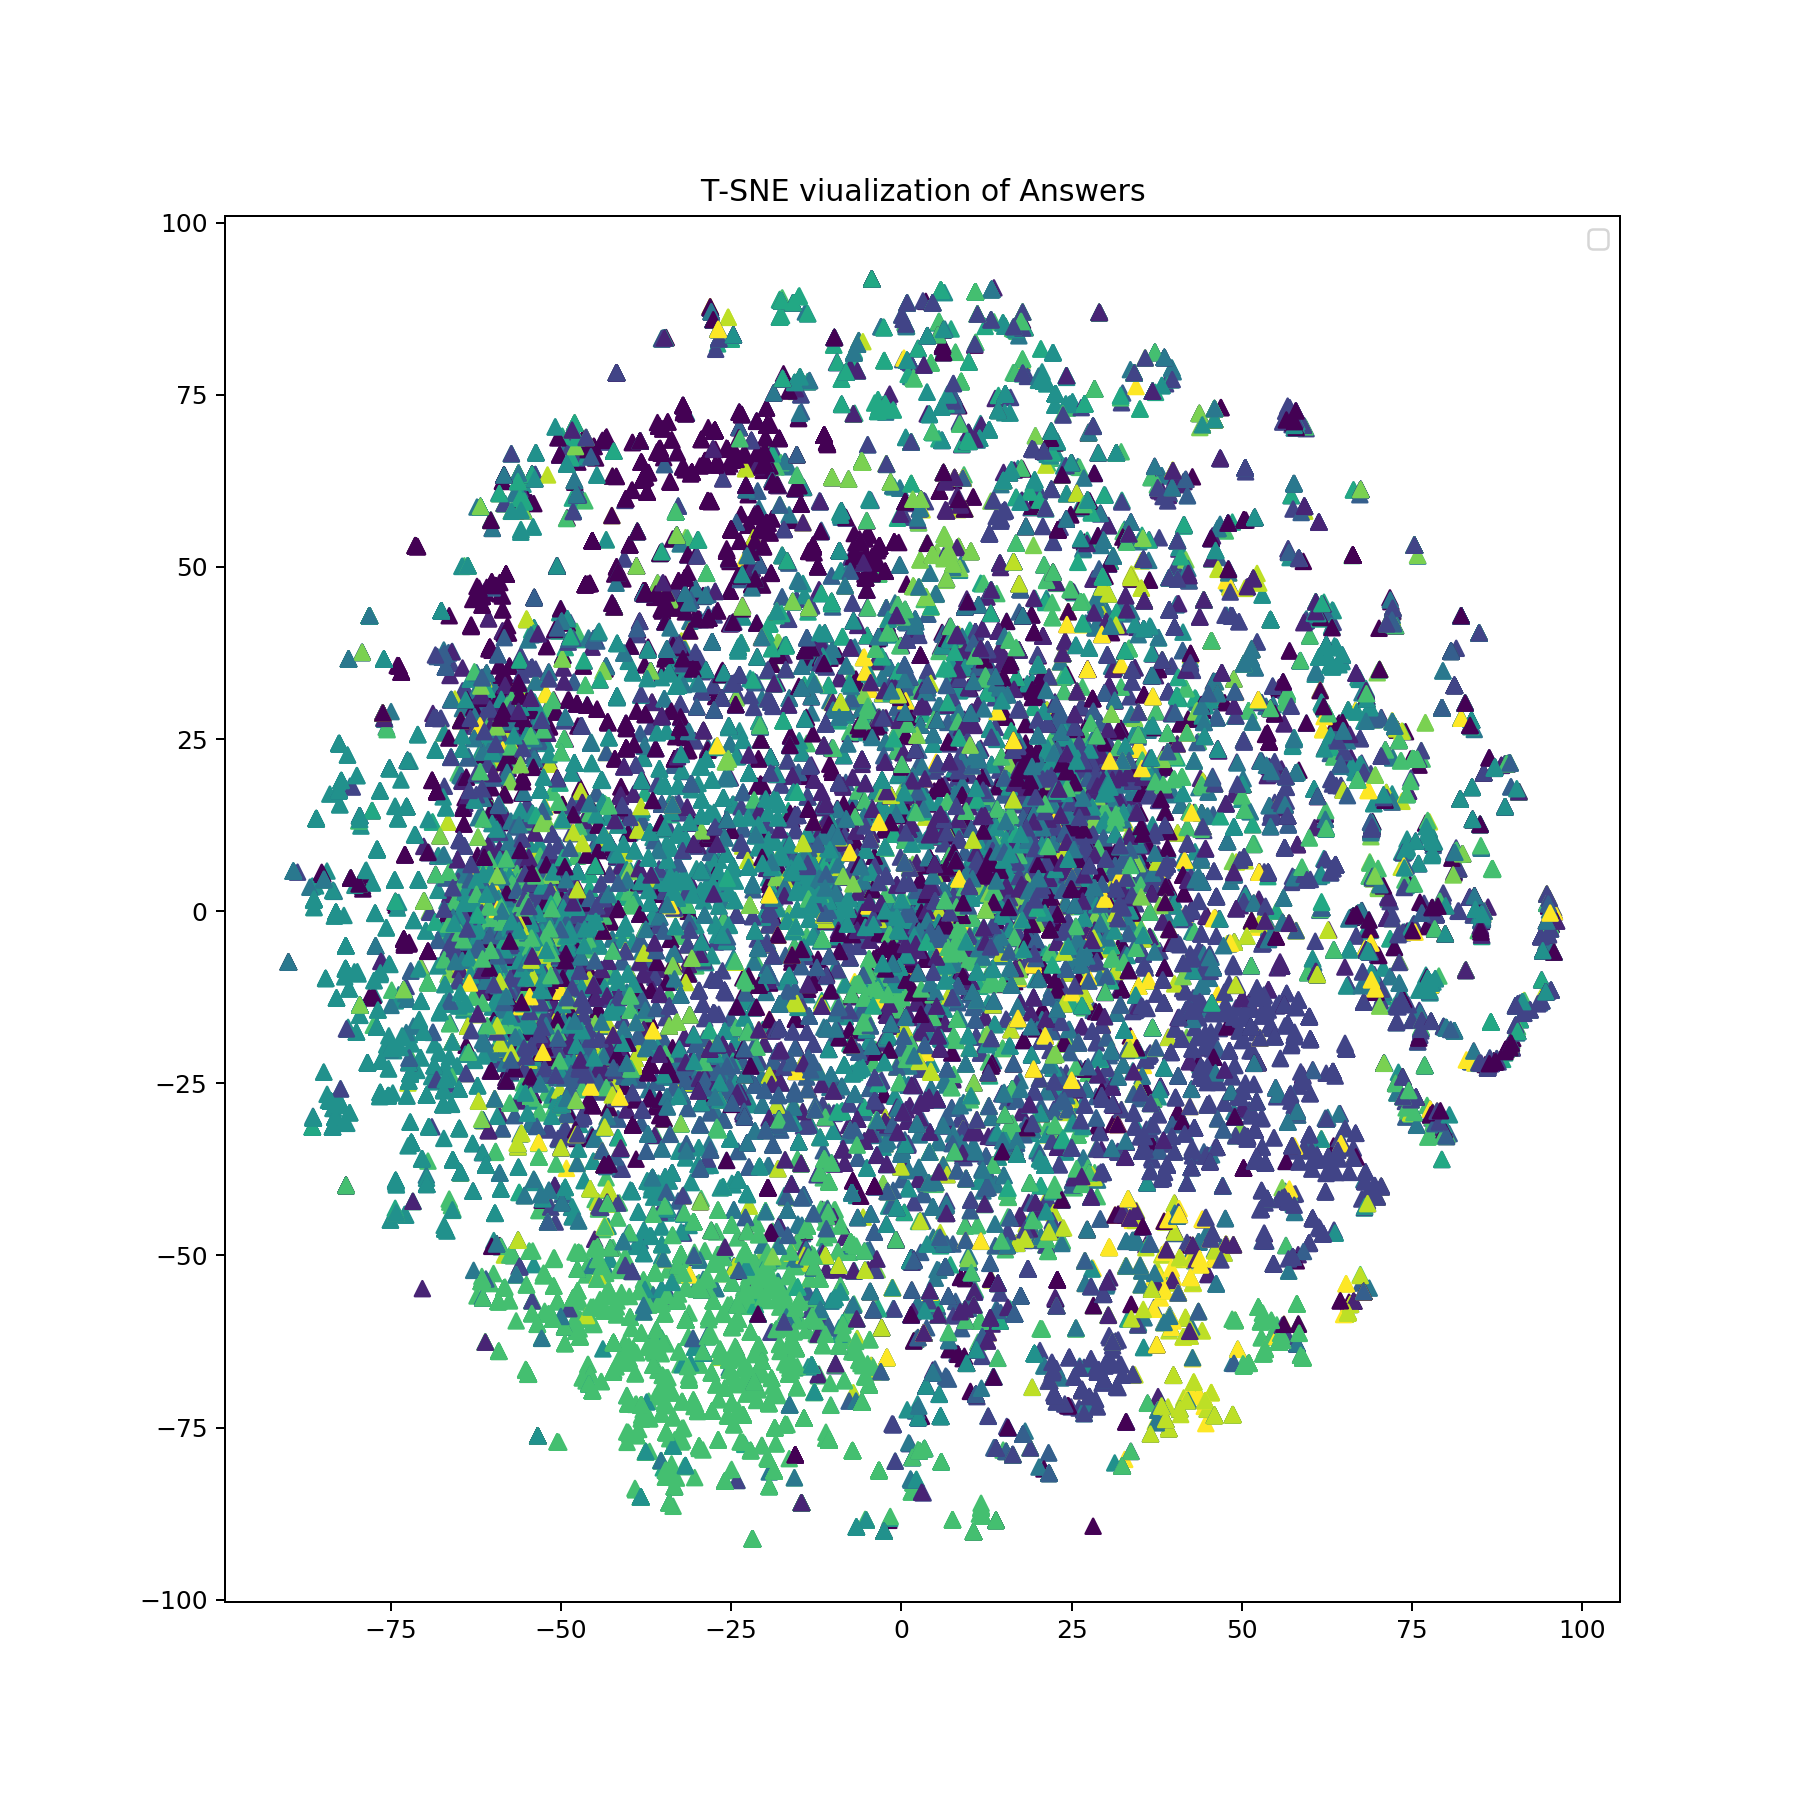
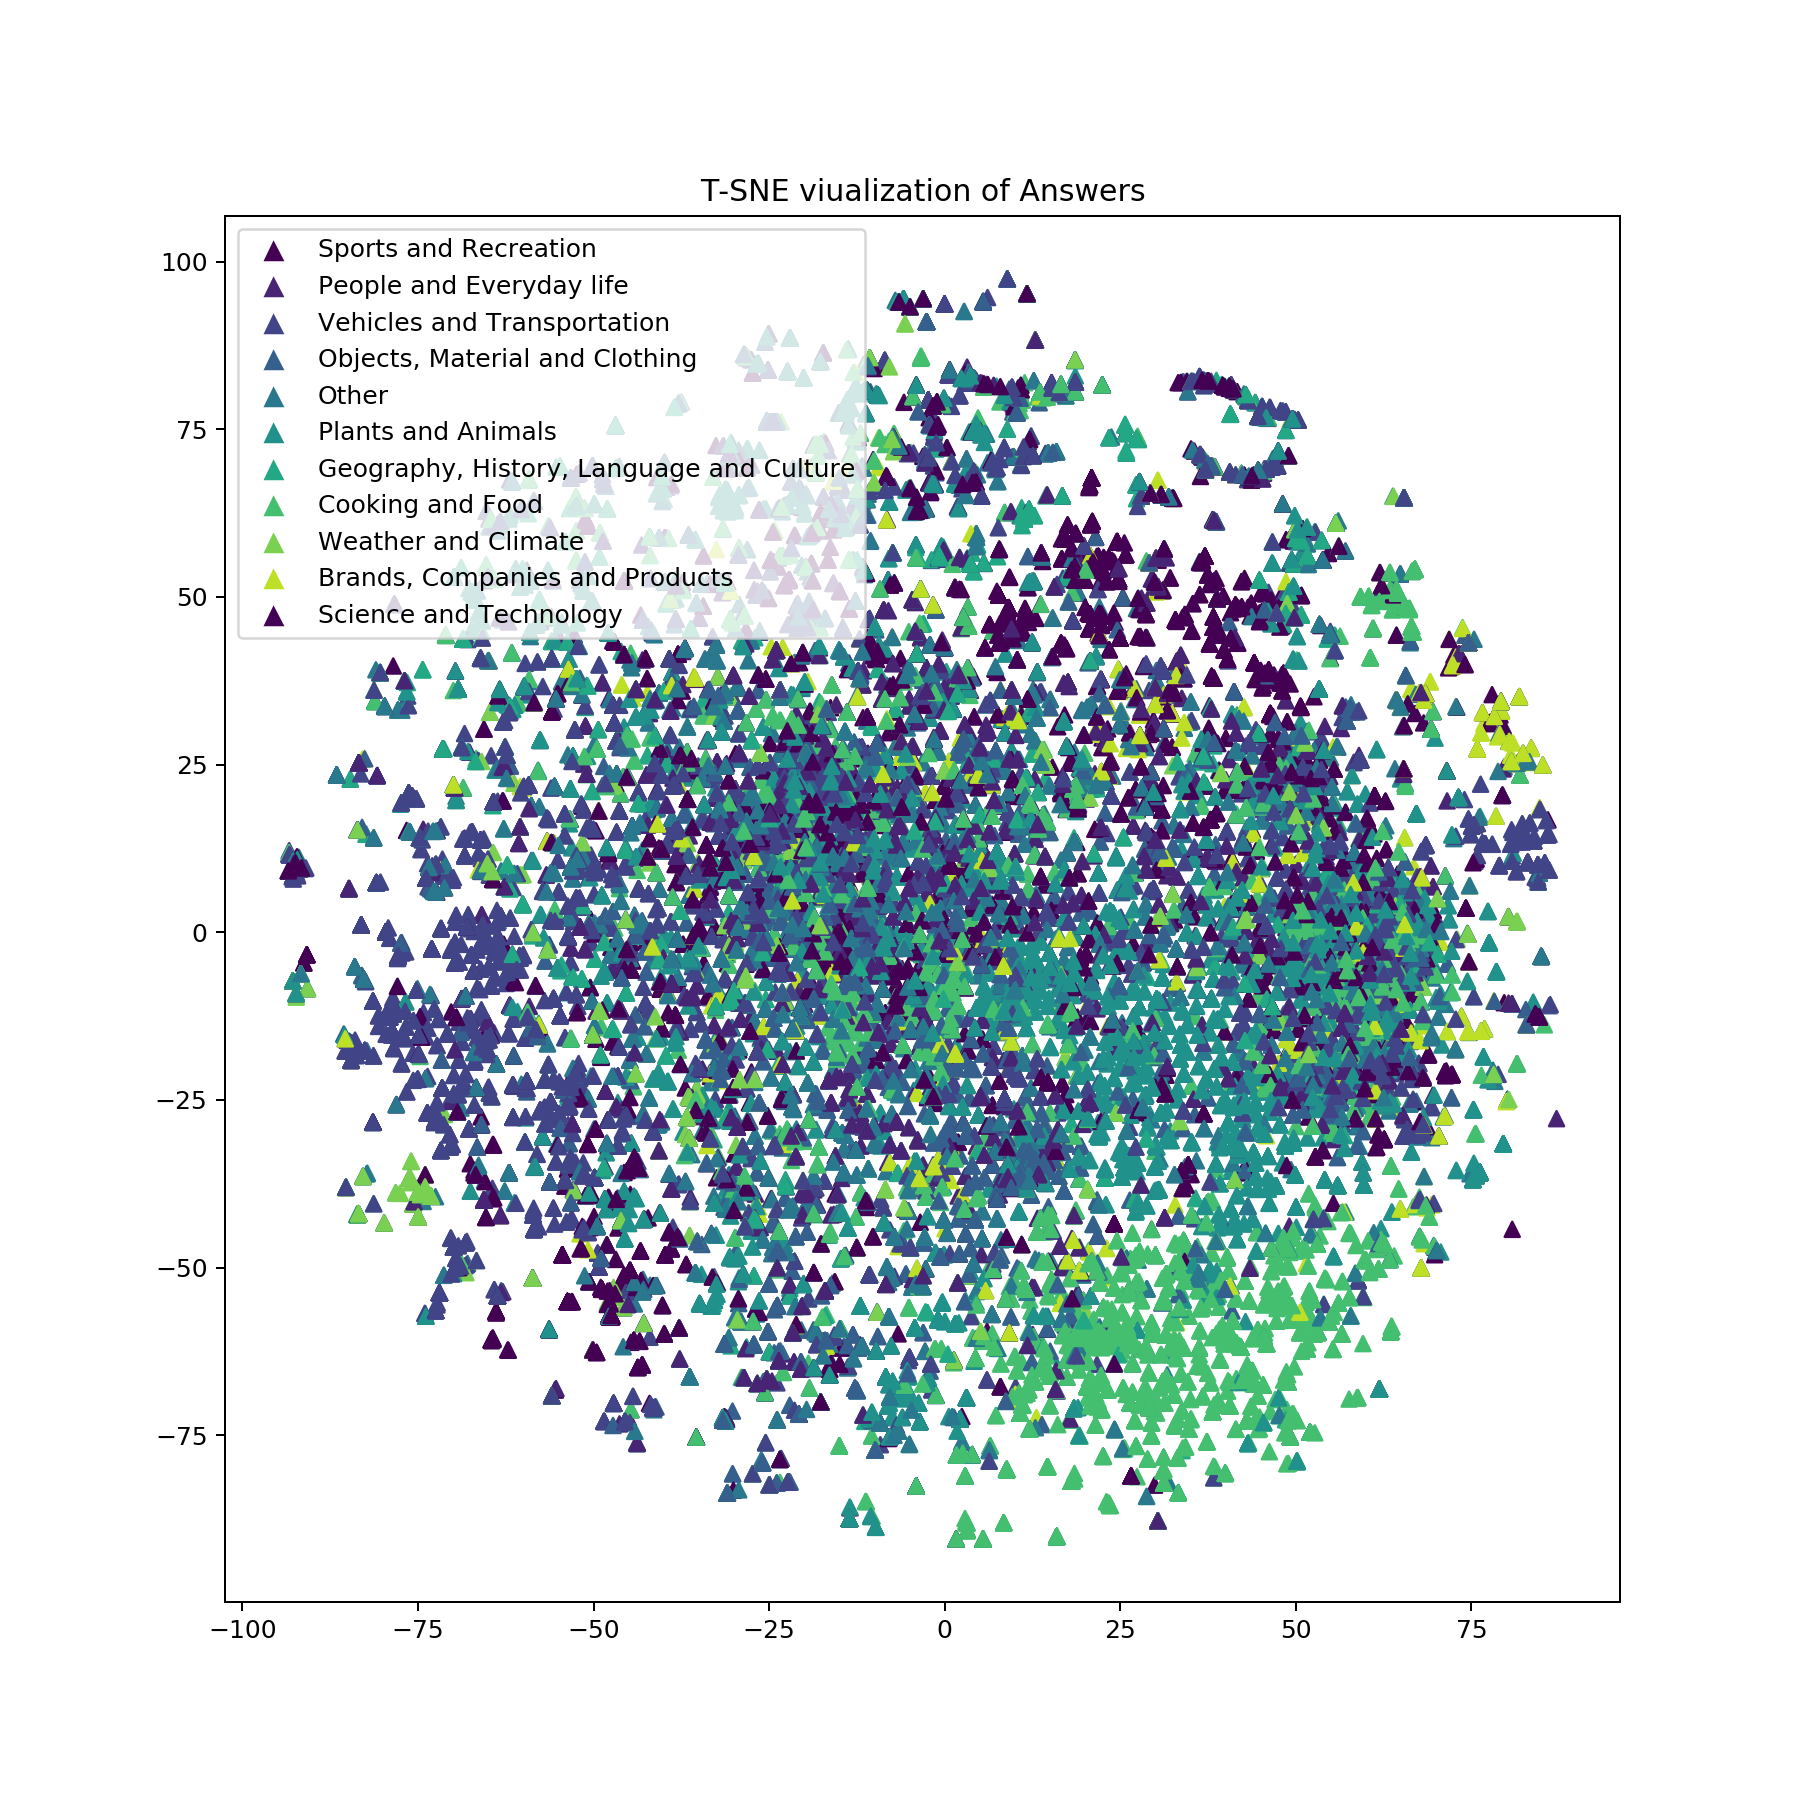
data analysis

diff --git a/language/word/visualize_word_embeddings.py b/language/word/visualize_word_embeddings.py
@@ -10,10 +10,13 @@ import numpy as np
 import nltk
 from sklearn.manifold import TSNE
 import matplotlib.pyplot as plt
+from matplotlib.lines import Line2D
 from string import punctuation
 hit = 0
 miss = 0
 color_map = [0, 0.1, 0.2, 0.3, 0.4, 0.5, 0.6, 0.7, 0.8, 0.9, 1]
+cmap = plt.cm.viridis
+# cmap = plt.rcParams['image.cmap']
 glove_path = "./glove.6B.50d.txt"
 answer_path = "./data/mscoco_train2014_annotations.json"
 question_path = "./data/OpenEnded_mscoco_train2014_questions.json"
@@ -25,14 +28,12 @@ def __process_sent(sent):
     return sent.lower().translate(translate_table)
 
 
-def get_sent_embedding(sentence, glove, filter_pos=None):
+def get_sent_embedding(sentence, glove, keep_pos=None):
     global hit, miss
-    if filter_pos is None:
-        filter_pos = []
     sentence = __process_sent(sentence)
     word_tokens = nltk.word_tokenize (sentence)
     tokens = nltk.pos_tag(word_tokens)
-    tokens = [item[0] for item in tokens if item[1] not in filter_pos]
+    tokens = [item[0] for item in tokens if keep_pos is None or item[1] in keep_pos]
     dim = glove.dim
     sent_emb = np.zeros(dim)
     cnt = 0
@@ -44,13 +45,15 @@ def get_sent_embedding(sentence, glove, filter_pos=None):
             cnt += 1
         else:
             miss += 1
+    if cnt == 0:
+        print('EMPTY')
     return sent_emb / cnt if cnt > 0 else sent_emb
 
 
-def all_embeddings(sentences, glove, filter_pos=None):
+def all_embeddings(sentences, glove, keep_pos=None):
     x = np.zeros((len(sentences), glove.dim))
     for i, sent in enumerate(sentences):
-        x[i, :] = get_sent_embedding(sent, glove, filter_pos)
+        x[i, :] = get_sent_embedding(sent, glove, keep_pos)
     return x
 
 
@@ -64,17 +67,29 @@ def tsne_visualize(X, types, type2name, name):
     # types = np.array(types)
     X_embedded = TSNE (n_components=2).fit_transform (X)
     f, axes = plt.subplots(1,1,figsize=(10, 10))
+    types = np.array(types)
+
     def plot(ax, data, **kwargs):
         return ax.scatter(data[:, 0], data[:, 1], **kwargs)
 
-    color = [color_map[i] for i in types]
-    plot(axes, X_embedded, c=color, marker='^', label=type2name[t])
-
-    axes.legend(title_fontsize='small', loc='upper left')
+    color = [cmap(color_map[i]) for i in types]
+    plot(axes, X_embedded, c=color, marker='^')
+    type_ids = np.unique (types)
+    legends = []
+    for type_id in type_ids :
+        type_name = type2name[type_id]
+        line = Line2D ([0], [0], marker='^',
+                       color='w',
+                       label=type_name,
+                       markerfacecolor=cmap(color_map[type_id]),
+                       markersize=10)
+        legends.append(line)
+    axes.legend(handles=legends, title_fontsize='small', loc='upper left')
     axes.set_title(f'T-SNE viualization of {name}')
     f.savefig(f"./language.plot.sentence.{name}.png", dpi=180)
 
 def main():
+    global miss, hit
     question_types = [] # integer
     questions = []
     anwser_types = []
@@ -85,18 +100,25 @@ def main():
         if type not in type2id:
             t = len(type2id)
             type2id[type] = t
-            type2id[t] = type
+            id2type[t] = type
 
         question_types.append (type2id[type])
+        questions.append(question)
         answers = set(answers)  # duplicate answers
         for answer in answers:
             all_answers.append(answer)
             anwser_types.append(type2id[type])
 
     tsne_visualize(all_embeddings(questions, glove_obj), question_types, id2type, "Questions")
+    print (f"Glove hit/miss in questions: {hit}/{miss}")
+    hit = 0
+    miss = 0
     tsne_visualize(all_embeddings(all_answers, glove_obj), anwser_types, id2type, "Answers")
+    print (f"Glove hit/miss in answers: {hit}/{miss}")
 
 def main_with_name_entity_filter():
+    keep_pos = ['NNS', 'NN', 'NNP', 'NNPS', "JJ", 'JJR', 'PRP', 'PRP$', 'RB', 'RBR', 'RBS', 'RP', 'SYM', 'VB', 'VBD',
+                'VBG', 'VBN', 'VBP', 'VBZ']
     question_types = [] # integer
     questions = []
     anwser_types = []
@@ -107,16 +129,16 @@ def main_with_name_entity_filter():
         if type not in type2id:
             t = len(type2id)
             type2id[type] = t
-            type2id[t] = type
+            id2type[t] = type
 
         question_types.append (type2id[type])
+        questions.append(question)
         answers = set(answers)  # duplicate answers
         for answer in answers:
             all_answers.append(answer)
             anwser_types.append(type2id[type])
 
-    tsne_visualize(all_embeddings(questions, glove_obj), question_types, id2type, "Questions.filter")
-    tsne_visualize(all_embeddings(all_answers, glove_obj), anwser_types, id2type, "Answers.filter")
+    tsne_visualize(all_embeddings(questions, glove_obj, keep_pos), question_types, id2type, "Questions.filter")
 
 if __name__ == "__main__":
     main()

diff --git a/language/word/similarity_check.py b/language/word/similarity_check.py
@@ -16,13 +16,13 @@ def cosine_similarity(x_vec, y_vev):
     :return:
     """
     y_norm = np.linalg.norm(y_vev, ord=2, axis=1, keepdims=True)
-    x_norm = np.linalg.norm(x_vec, ord=2, axis=1, keepdims=True)
-    return np.dot(y_vev, x_vec) / (y_norm * x_norm)
+    x_norm = np.linalg.norm(x_vec, ord=2, axis=0, keepdims=True)
+    return (y_vev @ x_vec[:, np.newaxis]) / ((y_norm * x_norm) + 1e-12)
 
 
 def get_rank(x_vec, y_vec, y_labels):
-    sim = cosine_similarity(x_vec, y_vec)
-    rank = np.argsort(sim)
+    sim = 1 / cosine_similarity(x_vec, y_vec).flatten()
+    rank = np.argsort(np.argsort(sim))
     ranks = []
     for label in y_labels:
         ranks.append(rank[label])
@@ -34,6 +34,7 @@ def get_mrr(x_vec, y_vec, y_labels):
     for i, labels in tqdm(enumerate(y_labels)):
         x = x_vec[i, :]
         ranks.extend(get_rank(x, y_vec, labels))
+
     mrr = [1/(i+1) for i in ranks]
     mrr = sum(mrr) / len(mrr)
     ranks = np.array(ranks)
@@ -55,15 +56,26 @@ def get_data(obj, glove_obj):
         for answer in answers:
             if answer not in answer2id:
                 t = len(answer2id)
-                answer2id[answer2id] = t
+                answer2id[answer] = t
                 id2answer[t] = answer
                 all_answers.append (answer)
 
-            labels.append(answer2id[answer2id])
+            labels.append(answer2id[answer])
 
         y_labels.append(labels)
+        questions.append(question)
 
     return all_embeddings(questions, glove_obj), all_embeddings(all_answers, glove_obj), y_labels
+
+def get_avg_similarity(x_vec, y_vec, y_labels):
+    # x_vec: (n, dim)
+    # y_vec: (n, dim)
+    all_sims = []
+    for i, labels in enumerate(y_labels):
+        sims = cosine_similarity(x_vec[i, :], y_vec[labels]).flatten()
+        all_sims.append(sims)
+    all_sims = np.concatenate(all_sims)
+    return np.nanmean(all_sims)
 
 if __name__ == "__main__":
     glove_path = "./glove.6B.50d.txt"
@@ -72,5 +84,8 @@ if __name__ == "__main__":
     obj = QuestionAnswerPair(answer_path=answer_path, question_path=question_path)
     glove_obj = Glove(glove_path)
     question_emb, answer_emb, y_labels = get_data(obj, glove_obj)
+    sims = get_avg_similarity(question_emb, answer_emb, y_labels)
     mrr, top1, top10, top50 = get_mrr(question_emb, answer_emb, y_labels)
+    print(f"MRR {mrr}, Hit@1 {top1:.4%}, Hit@10 {top10:.4%}, Hit@50 {top50:.4%},")
+    print(f"Avg CosineSimilarity: {sims:.4f}")
 

diff --git a/language/glove.py b/language/glove.py
@@ -118,13 +118,17 @@ class QuestionAnswerPair(object):
             yield question, self.questionid2type[question_id]
             
 if __name__ == "__main__":
+    """ Summarize the Data Set """
     question_path = "D:/OpenEnded_mscoco_train2014_questions.json/OpenEnded_mscoco_train2014_questions.json"
     answer_path = "D:/mscoco_train2014_annotations.json/mscoco_train2014_annotations.json"
     obj = QuestionAnswerPair(question_path, answer_path)
+    all_questions = set()
     for question, type_name in obj.iter_question_type_pairs():
         print(f"{question}: {type_name}")
-    # print(obj.answer2id)
-    # print(f"In total, there are {len(obj.answer2id)} kinds of answers")
+        all_questions.add(question)
+    # Glove hit/miss in questions: 73192/150
+    # Glove hit/miss in answers: 35234/1021
+    print(f"#question in train/all-set {len(all_questions)}/14055\n #unique question: 12591 \n #unique_words: 7178")
             
             
         
